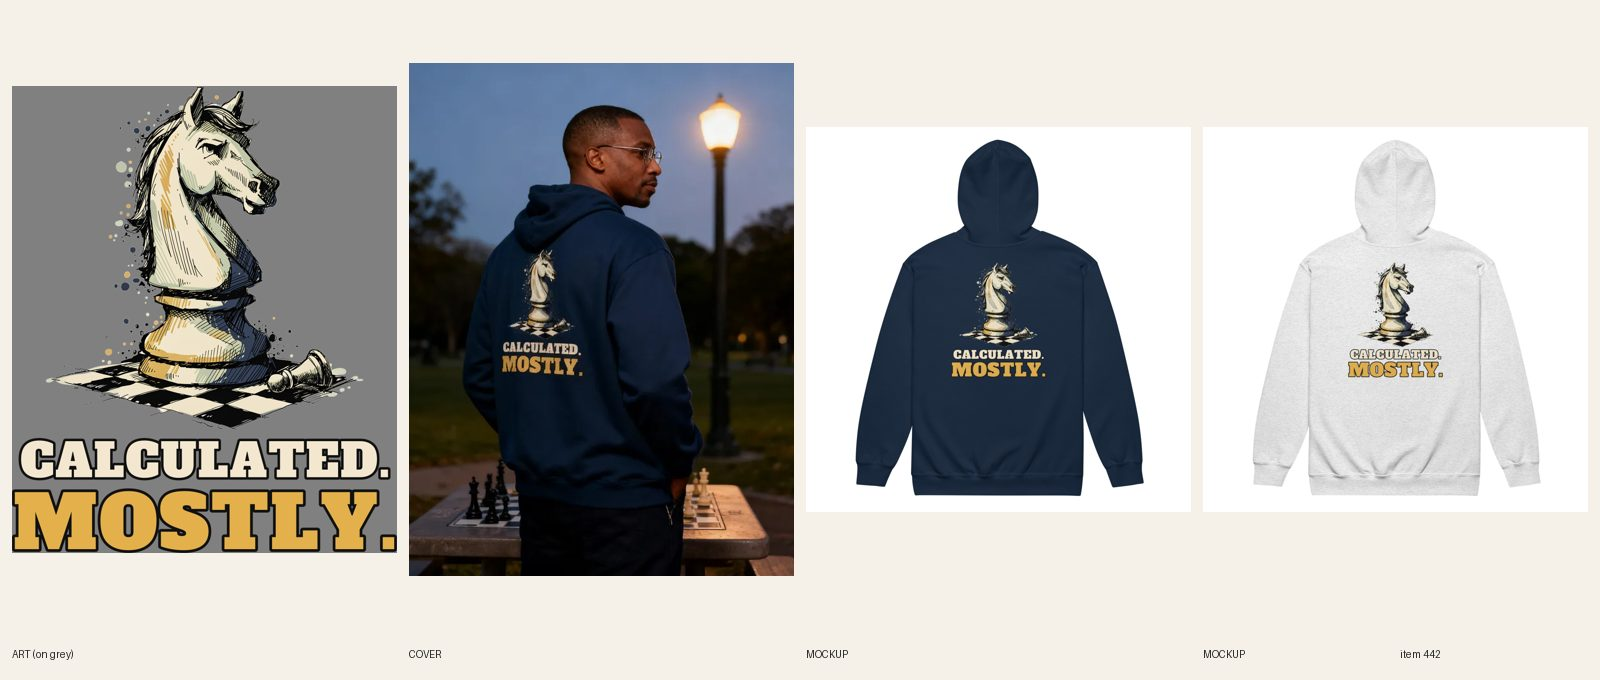
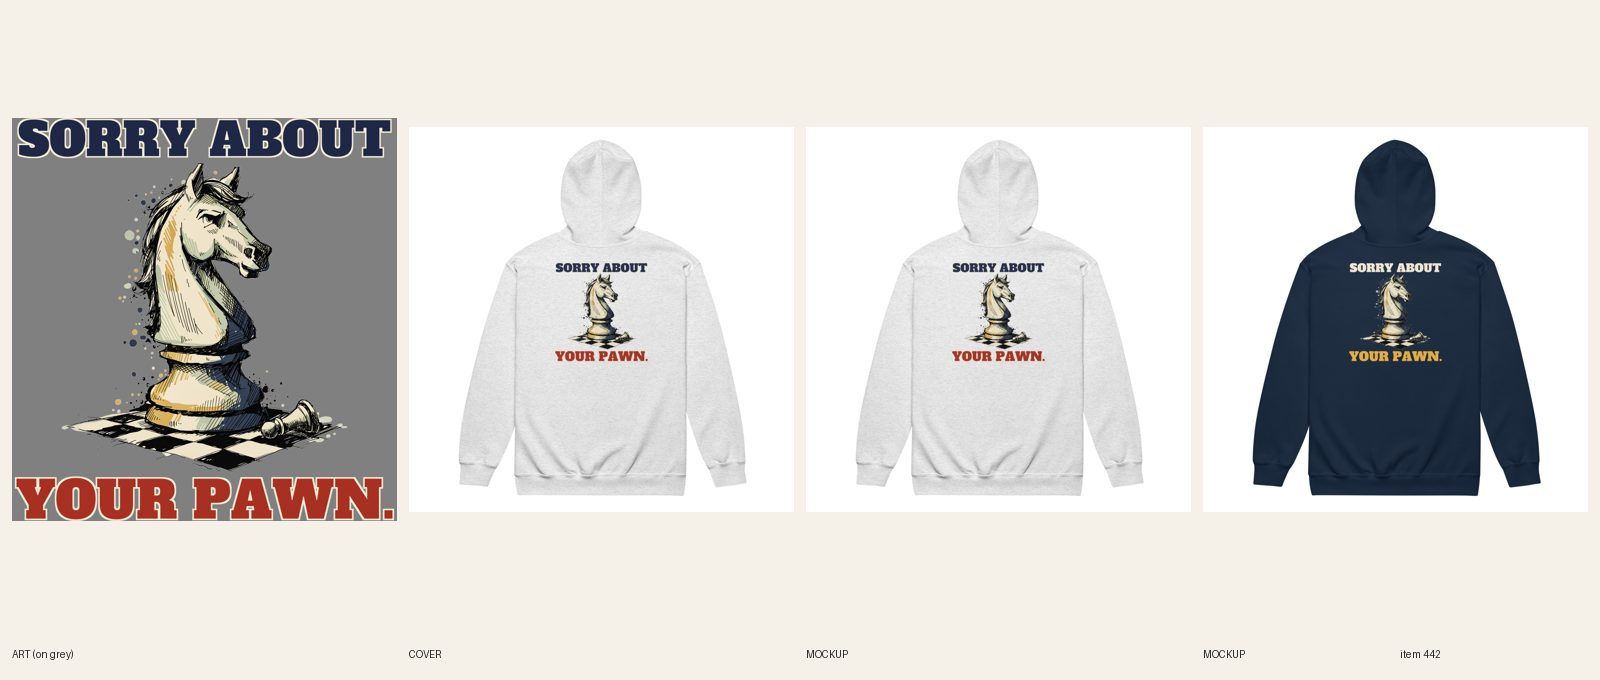
[C] review 442 (redo)
Claude-Session: https://claude.ai/code/session_01CCHcDj8LcJJ8qUPtKE3cvn

diff --git a/designs/c442/make.py b/designs/c442/make.py
@@ -1,0 +1,9 @@
+import sys; sys.path.insert(0,'.')
+from designs.lib import *
+im=Image.open('docs/print-files/442-calculated-mostly.png').convert('RGBA'); W=im.width
+art=im.crop((0,0,W,3050)); art=art.crop(art.getbbox()); art=art.resize((int(art.width*0.9),int(art.height*0.9)),Image.LANCZOS)
+DK=(30,40,70,255); GOLD=(236,176,60,255); BROWN=(96,62,20,255); RED=(168,48,34,255)
+for tag,c1,k1,c2,k2,bg in (('ash',DK,CREAM,RED,CREAM,(200,200,200,255)),('navy',CREAM,DK,GOLD,DK,(38,50,88,255))):
+    h1=line("SORRY ABOUT",'alfa',0.97,W,c1,k1,kw=27); h2=line("YOUR PAWN.",'alfa',0.985,W,c2,k2,kw=29)
+    print(tag,'headline px',h1.width,'punch px',h2.width,'heights',h1.height,h2.height,'art',art.size)
+    out=lockup(art,W,[h1],[h2],f'442-v2-pawn-{tag}',{tag:bg}); print(out.size)

diff --git a/docs/pipeline/442-zip-hoodie-chess-knight-shift.md b/docs/pipeline/442-zip-hoodie-chess-knight-shift.md
@@ -1,4 +1,4 @@
-status: BUILDING [C] 2026-10-20 07:41
+status: REVIEW
 lane: C
 type: new
 id: 442
@@ -39,3 +39,4 @@ kd: 32
 - 2026-10-18 01:55 UTC builder [C]: REVIEW. Sync 12/12 with the new back and chest files. Sheet docs/review/442.jpg.
 - 2026-10-18 01:19 UTC director: LIVE. Smug knight reads, both lines read on Navy and Ash, night chess-table cover with hood visible. ACTIVE + Online Store/Headless/Google & YouTube, audit PASS 0 warn.
 - 2026-10-18 17:22 UTC director: QUALITY RESET grade C (new line + type), REDO. The product stays ACTIVE (same handle, URL, title keyword). 1. Line (R3.12, quality-reset 'Lines'): "CALCULATED. / MOSTLY.": Noun + mild aside formula; smirk at best. Write 5 candidates, keep the one a stranger laughs at in 3 seconds without backstory; kill lines that only describe the picture; if none of the 5 is funny, PARK it. 2. Quality reset type bar (docs/backlog/quality-reset.md, 'The new bar'): headline at least 90% of the art width, heavy, colors pulled from the art; second line at least 45% of the headline's height, never a thin script on a dark or mid garment; use the lettering as a shape (arch, stacked lockup, words breaking into the art), not a plain bar above and a script line below; no font used on more than 1 in 6 of the last 30 designs. 3. Keep the art if it carries the new line, else one new illustration (R4/R5). New print means a new cover per R6.10, copy line one rewritten for the new joke (R8.3), and a fresh review sheet (R7.7). While quality-reset.md says PAUSED, only lane A builds, and only the samples step 2 names.
+- 2026-10-20 07:47 UTC builder [C]: REDO new line + type (grade C; title card 7i done). 5 candidates, compared with Sorry About Your Windshield., Not Cheating. Improving My Lie. and Short Legs, Long Opinions: "SORRY ABOUT / YOUR PAWN." (kept: the smug knight and the toppled pawn say it, same deadpan as Sorry About Your Windshield.), "CALCULATED. MOSTLY." (old), "I SAW IT COMING. I PLAYED IT ANYWAY.", "KNIGHT MOVES. DAY BLUNDERS.", "IT'S NOT A BLUNDER. IT'S A GAMBIT.". Same knight/pawn art at 90%. Measured ink widths (card 7h): headline SORRY ABOUT 3313 px / punch YOUR PAWN. 3354 px (101%; punch also taller, 395 vs 356). Alfa Slab One both lines. Light-file (R5.3.8): Ash file 1090239213 has the headline navy with a cream keyline and the punch red; Navy file 1090239262 has the headline cream and the punch gold with a navy keyline (docs/print-files/442-v2-pawn-ash.png / -navy.png); logged: light file Ash on file 1090239213, headline fill navy. Back 3405 x 3564, BW 1650 BT 225, knight-only chest file 1088594182 unchanged, 12/12 relinked (verified on the API before REVIEW). Both back mockups replaced in place, read at phone size. Title set to "Men's Chess – Sorry About Your Pawn Zip Hoodie" (handle unchanged), SEO title/meta and copy rewritten. Plain product shot. fal $0.

diff --git a/docs/intake-log.md b/docs/intake-log.md
@@ -2,6 +2,7 @@ RUNNING director since 2026-10-20 07:17 UTC
 2026-10-20 07:43 UTC — [A] Builder run: redid #389 Women's Christmas Seasonally Overbooked tee (line+type: SORRY, I'M BOOKED / UNTIL JANUARY., same calendar art, Bowlby One full width, dark file 1090231492 / light file 1090231470, 42/42 relinked, 7 fronts replaced in place, copy updated, plain product shot). REVIEW. fal $0.
 2026-10-20 07:44 UTC — [B] Builder run: REDO round 3 of #455 Unisex Hanukkah Lost My Gelt crewneck (dreidel face marks painted out, Navy file 1090236634 + Sport Grey file 1090236680, FW 1650 TOP 0, 12/12 relinked, 2 fronts replaced in place) and #469 Women's Christmas embroidered crewneck (new line BOOKED / THROUGH JANUARY., headline 2197 / punch 2197 px, Sand file 1090237592 + Navy file 1090237605, 12/12 synced, title/SEO/copy/alts updated). Both REVIEW. #498 left for director (R3.14 note). fal $0.
 RUNNING lane C since 2026-10-20 07:00 UTC
+2026-10-20 07:47 UTC — [C] Builder run: redid #442 Men's Chess zip hoodie (new line + type: SORRY ABOUT / YOUR PAWN., headline 3313 px / punch 3354 px, Alfa Slab, same knight art, Ash file 1090239213 + Navy file 1090239262, BW 1650 BT 225, 12/12 relinked, back mockups replaced, title + copy + SEO updated). REVIEW. fal $0.
 2026-10-20 07:40 UTC — [C] Builder run: redid #465 Unisex Lawyer hoodie (new line + type: THIS NAP IS / BILLABLE., headline 3185 px / punch 3195 px, Bevan + Alfa Slab, same sleeping-lawyer art, Sand file 1090236655 + Navy file 1090236679, FW 1500 TOP 0, 12/12 relinked, 2 fronts replaced in place, copy + SEO updated). REVIEW. fal $0.
 2026-10-20 07:32 UTC — [C] Builder run: redid #334 Unisex Thanksgiving turkey hoodie (new line + type: NO TURKEY HERE. / JUST A GUY IN A HOODIE., headline 2951 px / punch 3049+3004 px, Alfa Slab + Oswald, same turkey art, Sand file 1090233279 + Navy file 1090233375, FW 1500 TOP 0, 12/12 relinked, 2 fronts replaced in place, copy + SEO updated). REVIEW. fal $0.
 2026-10-20 08:00 UTC — [D] Director run: inbox nothing new. 6 LIVE (cap): #252 #323 #365 #386 #395 #409, audit PASS (#323 SEO title added). Reviewed 25: 23 approved and held (8 stale titles fixed, #492 meta added; new cropped hoodie #697 approved, still DRAFT), 2 REDO (#455 dreidel faces read as fake Hebrew R5.3.9; #469 repeats #486 punch R13.3). Builder card 7i (retitle on every line redo). #513 to reference/best. Queue: 12 READY in each of A, B, C, E; no briefs needed. No Telegram (not a digest run).
